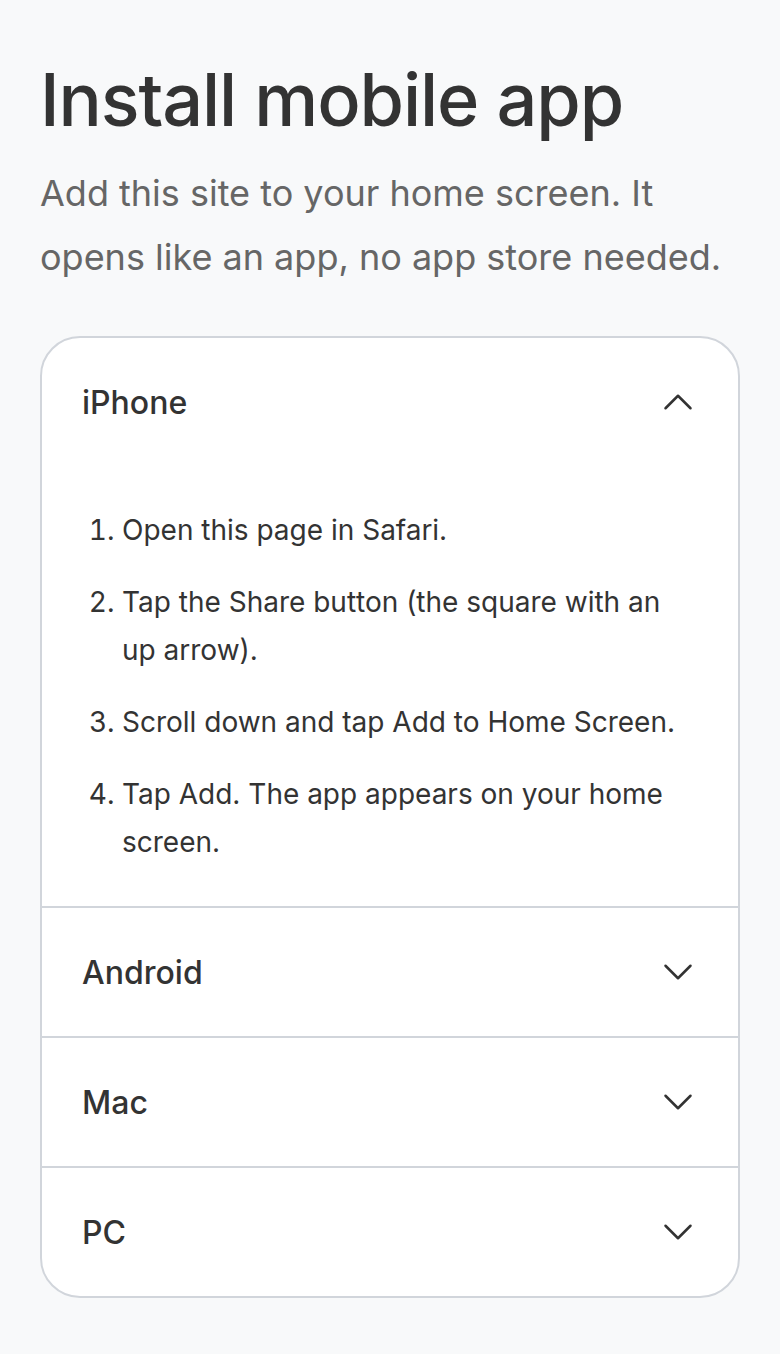
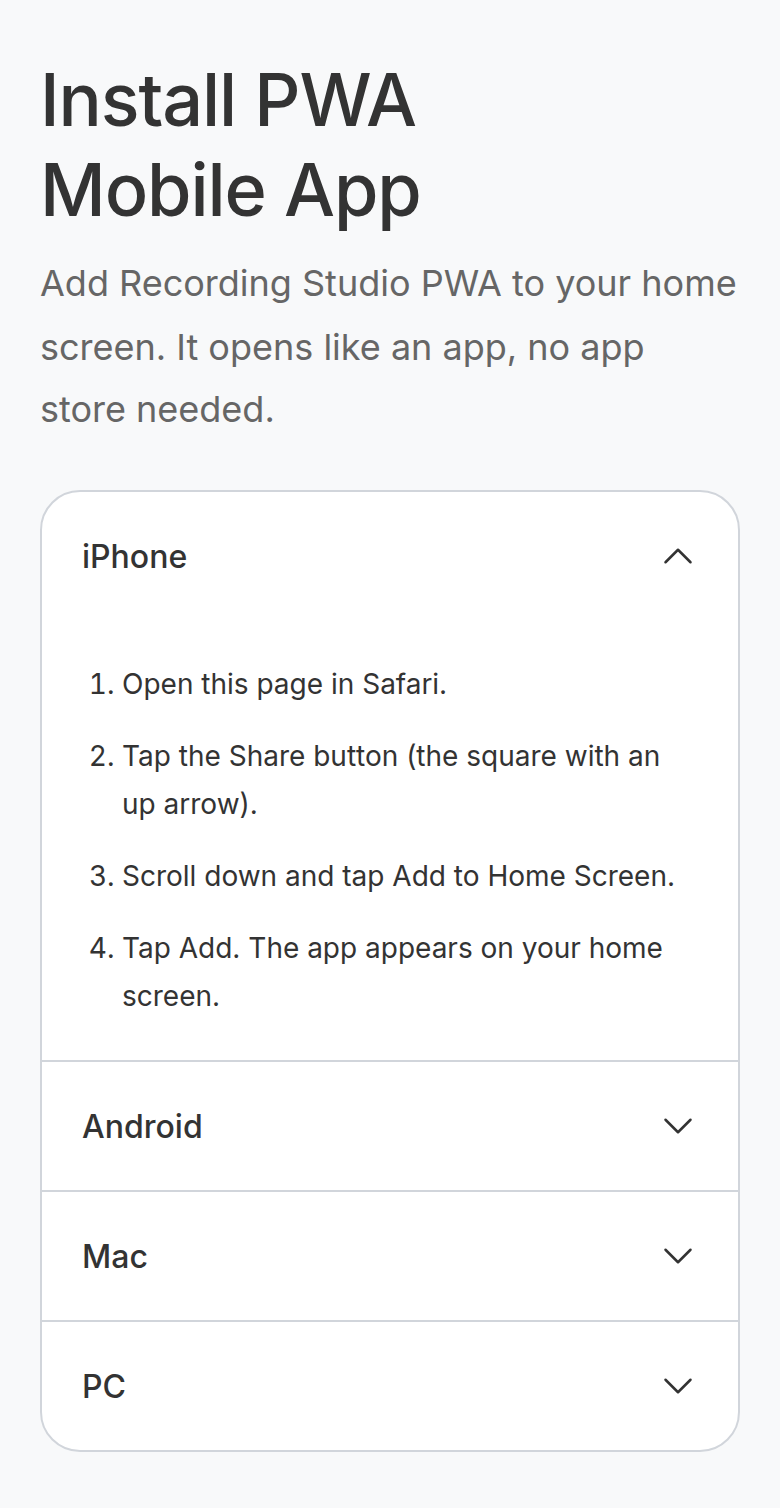
Name the install page and use the site name in the subtitle.
The title is Install PWA Mobile App. The subtitle interpolates the Site Settings name when that gem is loaded, and the PWA name when it is missing or blank.

diff --git a/test/install_copy_test.rb b/test/install_copy_test.rb
@@ -1,0 +1,71 @@
+# frozen_string_literal: true
+
+require "test_helper"
+
+class InstallCopyTest < Minitest::Test
+  def setup
+    @name = RecordingStudioPwa.configuration.name
+    @site_settings = Object.const_defined?(:RecordingStudioSiteSettings) ? RecordingStudioSiteSettings : nil
+    RecordingStudioPwa.configuration.name = "Fallback App"
+  end
+
+  def teardown
+    RecordingStudioPwa.configuration.name = @name
+    restore_site_settings
+  end
+
+  def test_site_settings_name_is_used_when_present
+    install_site_settings("North Studio")
+
+    assert_equal "North Studio", RecordingStudioPwa::InstallCopy.site_name(Object.new)
+    assert_includes subtitle, "Add North Studio to your home screen."
+  end
+
+  def test_blank_site_settings_name_falls_back_to_the_pwa_name
+    install_site_settings("  ")
+
+    assert_equal "Fallback App", RecordingStudioPwa::InstallCopy.site_name(Object.new)
+    assert_includes subtitle, "Add Fallback App to your home screen."
+  end
+
+  def test_missing_site_settings_falls_back_to_the_pwa_name
+    remove_site_settings
+
+    assert_equal "Fallback App", RecordingStudioPwa::InstallCopy.site_name(Object.new)
+    assert_includes subtitle, "Add Fallback App to your home screen."
+  end
+
+  def test_site_name_is_escaped
+    install_site_settings("<Studio>")
+
+    text = subtitle
+
+    assert_includes text, "Add &lt;Studio&gt; to your home screen."
+    refute_includes text, "Add <Studio>"
+  end
+
+  private
+
+  def subtitle
+    RecordingStudioPwa::InstallCopy.subtitle(Object.new)
+  end
+
+  def install_site_settings(name)
+    remove_site_settings
+    root = Object.new
+    fake = Module.new do
+      define_singleton_method(:site_root_for) { |_context| root }
+      define_singleton_method(:name_for) { |given| given.equal?(root) ? name : nil }
+    end
+    Object.const_set(:RecordingStudioSiteSettings, fake)
+  end
+
+  def remove_site_settings
+    Object.send(:remove_const, :RecordingStudioSiteSettings) if Object.const_defined?(:RecordingStudioSiteSettings)
+  end
+
+  def restore_site_settings
+    remove_site_settings
+    Object.const_set(:RecordingStudioSiteSettings, @site_settings) if @site_settings
+  end
+end

diff --git a/test/dummy/test/integration/pwa_foundation_test.rb b/test/dummy/test/integration/pwa_foundation_test.rb
@@ -34,9 +34,9 @@ class PwaFoundationTest < ActionDispatch::IntegrationTest
     get pwa_install_path
 
     assert_response :success
-    assert_select "h1", text: "Install mobile app"
-    assert_select "title", text: "Install mobile app"
-    assert_select "p", text: "Add this site to your home screen. It opens like an app, no app store needed.", count: 1
+    assert_select "h1", text: "Install PWA Mobile App"
+    assert_select "title", text: "Install PWA Mobile App"
+    assert_select "p", text: "Add Recording Studio PWA to your home screen. It opens like an app, no app store needed.", count: 1
     refute_includes response.body, "Open it in its own window"
     assert_select "body[data-recording-studio-default-layout='true']", count: 1
     assert_select "nav[aria-label='Page navigation']", count: 1
@@ -86,7 +86,7 @@ class PwaFoundationTest < ActionDispatch::IntegrationTest
     get pwa_install_path
 
     assert_response :success
-    assert_select "h1", text: "Install mobile app"
+    assert_select "h1", text: "Install PWA Mobile App"
   end
 
   test "gem default web app name is literal english App when host name is blank" do

diff --git a/lib/recording_studio_pwa/install_copy.rb b/lib/recording_studio_pwa/install_copy.rb
@@ -1,0 +1,34 @@
+# frozen_string_literal: true
+
+require "erb"
+require "active_support/core_ext/string/output_safety"
+
+module RecordingStudioPwa
+  module InstallCopy
+    module_function
+
+    def subtitle(context = nil)
+      I18n.t(
+        "recording_studio.pwa.install.subtitle",
+        site_name: ERB::Util.html_escape(site_name(context))
+      ).html_safe
+    end
+
+    def site_name(context = nil)
+      settings_name(context).presence || WebApp.name
+    end
+
+    def settings_name(context)
+      return unless defined?(RecordingStudioSiteSettings)
+      return unless RecordingStudioSiteSettings.respond_to?(:name_for)
+
+      RecordingStudioSiteSettings.name_for(settings_root(context))
+    end
+
+    def settings_root(context)
+      return unless RecordingStudioSiteSettings.respond_to?(:site_root_for)
+
+      RecordingStudioSiteSettings.site_root_for(context)
+    end
+  end
+end

diff --git a/test/recording_studio_pwa_test.rb b/test/recording_studio_pwa_test.rb
@@ -23,6 +23,7 @@ class RecordingStudioPwaTest < Minitest::Test
     refute_includes gemspec, 'spec.add_dependency "recording_studio", "~> 4.2"'
     refute_includes gemspec, 'spec.add_dependency "recording_studio", "~> 4.1"'
     refute_includes gemspec, "recording_studio_plugins"
+    refute_includes gemspec, "recording_studio_site_settings"
   end
 
   def test_dummy_gemfile_pins_verified_6x_github_tags

diff --git a/lib/recording_studio_pwa.rb b/lib/recording_studio_pwa.rb
@@ -10,6 +10,7 @@ require "recording_studio_pwa/allows_pwa_slices"
 require "recording_studio_pwa/uses_pwa_layout"
 require "recording_studio_pwa/web_app"
 require "recording_studio_pwa/install_slice"
+require "recording_studio_pwa/install_copy"
 require "recording_studio_pwa/plugin_directory"
 require "recording_studio_pwa/host_install"
 

diff --git a/docs/pwa.md b/docs/pwa.md
@@ -77,7 +77,7 @@ While some recordable type enables `:install`, the gem draws `GET /pwa/install` 
 
 ## Install page
 
-`/pwa/install` is a public static page. It does not require a signed-in session. The title is **Install mobile app**, with a one-sentence subtitle under it. Device steps live in a FlatPack accordion (iPhone, Android, Mac, PC). The page uses `UsesPwaLayout`.
+`/pwa/install` is a public static page. It does not require a signed-in session. The title is **Install PWA Mobile App**, with a one-sentence subtitle under it. The subtitle names the site from `RecordingStudioSiteSettings.name_for` and `site_root_for` when that gem is loaded and the name is present. Otherwise it uses the PWA name. This gem does not depend on Site Settings. Device steps live in a FlatPack accordion (iPhone, Android, Mac, PC). The page uses `UsesPwaLayout`.
 
 A Stimulus controller (`recording-studio-pwa--install`) listens for `beforeinstallprompt`. When the browser offers one, a primary **Install** button calls `prompt()`. `appinstalled` hides the button. If the app is already running `display-mode: standalone`, the page says the app is already on this device. Browsers that never fire the prompt (iPhone Safari, Mac Safari, Firefox) leave the button hidden and open the accordion for that device. Without JavaScript the accordion is closed and the steps are still in the page.
 
@@ -123,7 +123,7 @@ Configuration is host PWA chrome plus `plugin_directory` (default `false`). The 
 - The dummy host name is **Recording Studio PWA**. That value is what `/manifest`, `apple-mobile-web-app-title`, and the browser install prompt should show.
 - Dummy icons are `/icon.png` and `/icon.svg` — a charcoal rounded-theme mark, not the red template circle.
 - `/` is still the Template Demo on Recording Studio's default layout. That page is dummy chrome, not a product screen.
-- `/pwa/install` is the gem install page on the same layout. The page title is **Install mobile app**. Device steps live in a FlatPack accordion (iPhone, Android, Mac, PC). Signed-out visitors can open it. The **Install** button stays hidden until the browser fires `beforeinstallprompt`.
+- `/pwa/install` is the gem install page on the same layout. The page title is **Install PWA Mobile App**. Device steps live in a FlatPack accordion (iPhone, Android, Mac, PC). Signed-out visitors can open it. The **Install** button stays hidden until the browser fires `beforeinstallprompt`.
 - `/manifest` and `/service-worker` are the Rails PWA endpoints. `/manifest` returns JSON, including when the request `Accept` is `text/html` (via the gem's `pwa/manifest.html.erb`)
 - Workspace enables `:install`; Folder and Page do not
 

diff --git a/CHANGELOG.md b/CHANGELOG.md
@@ -10,7 +10,7 @@ and this project adheres to [Semantic Versioning](https://semver.org/spec/v2.0.0
 ## [0.11.0] - 2026-11-20
 
 ### Added
-- Gem-owned install page at `/pwa/install`, titled **Install mobile app**, with a one-sentence subtitle and a FlatPack accordion for iPhone, Android, Mac, and PC
+- Gem-owned install page at `/pwa/install`, titled **Install PWA Mobile App**, with a one-sentence subtitle (the Site Settings name when that gem is loaded, otherwise the PWA name) and a FlatPack accordion for iPhone, Android, Mac, and PC
 - Install button that calls the browser install prompt when `beforeinstallprompt` fires, and an already-installed state in standalone mode
 - English copy under `recording_studio.pwa.install` so hosts can override it
 - `config.plugin_directory` (default `false`). When true, and `recording_studio_plugins` is loaded, the gem registers a Plugins directory row whose action opens the install page

diff --git a/test/dummy/README.md b/test/dummy/README.md
@@ -31,7 +31,7 @@ Then open the app and sign in with:
 ## Useful Routes
 
 - `/` - Template Demo on the shared Recording Studio layout
-- `/pwa/install` - gem install page titled **Install mobile app**, with FlatPack accordion steps for iPhone, Android, Mac, and PC. Public, including when signed out
+- `/pwa/install` - gem install page titled **Install PWA Mobile App**, with FlatPack accordion steps for iPhone, Android, Mac, and PC. Public, including when signed out
 - `/manifest` - host web app manifest (`name` / `short_name` are Recording Studio PWA). JSON for any Accept, including `text/html`
 - `/service-worker` - host service worker
 - `/recording_studio` - redirects to `/` while the mounted Recording Studio engine stays available under that prefix for non-root routes

diff --git a/README.md b/README.md
@@ -56,7 +56,7 @@ The login form is prefilled with these credentials for fast access.
 ### Useful Routes
 
 - `/` — Template Demo on the shared Recording Studio layout
-- `/pwa/install` — gem install page titled **Install mobile app**, with FlatPack accordion steps for iPhone, Android, Mac, and PC. Public. The Install button appears when the browser offers a prompt
+- `/pwa/install` — gem install page titled **Install PWA Mobile App**, with FlatPack accordion steps for iPhone, Android, Mac, and PC. Public. The Install button appears when the browser offers a prompt
 - `/manifest` — host web app manifest (JSON for any `Accept`, including `text/html`)
 - `/service-worker` — host service worker
 - `/users/sign_in` — Devise sign-in page
